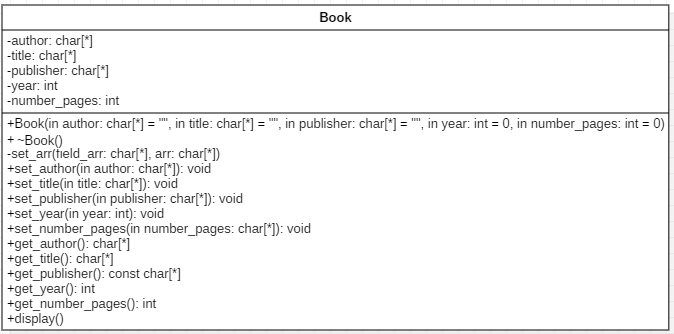
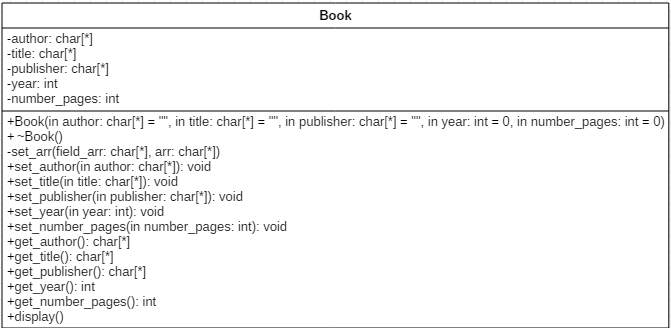
minor changes to uml and cpp file in 1st lab

Changed region(s): [[0.0, 0.0, 1.0, 1.0], [0.4173, 0.3354, 0.6259, 0.3963]]

diff --git a/Practice labs year2term2/4_Pract_1/4_Pract_1_code/book.cpp b/Practice labs year2term2/4_Pract_1/4_Pract_1_code/book.cpp
@@ -5,11 +5,20 @@ Book::Book(const char *author, const char *title, const char *publisher, int yea
     if (!author || !title || !publisher)
     {
         if (author == nullptr)
+		{
             Book::author = new char[1];
+			*Book::author = '\0';
+		}
         if (title == nullptr)
+		{
             Book::title = new char[1];
+			*Book::title = '\0';
+		}
         if (publisher == nullptr)
+		{
             Book::publisher = new char[1];
+			*Book::publisher = '\0';
+		}
     }
     else
     {
@@ -88,8 +97,8 @@ void Book::set_arr(char *field_arr, const char *arr)
         field_arr = new char[strlen(arr)+1];
         strcpy(field_arr, arr);
     }
-    else
-        field_arr = new char[1];
+	else
+		field_arr = nullptr;
 }
 
 void Book::display()
